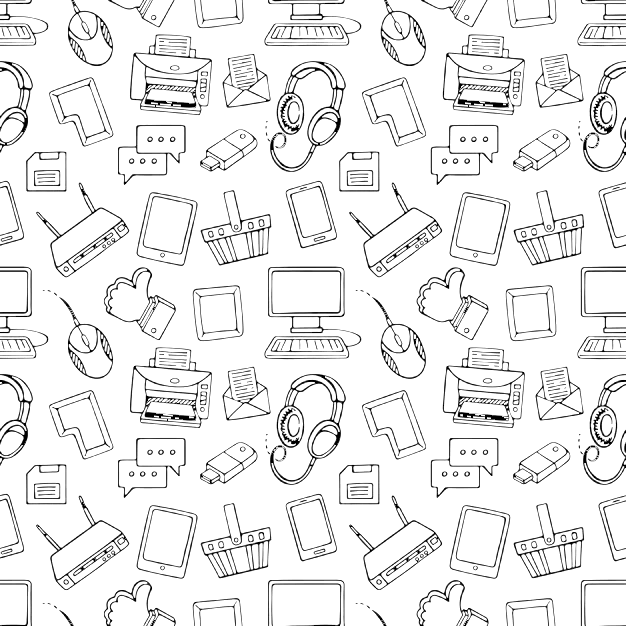
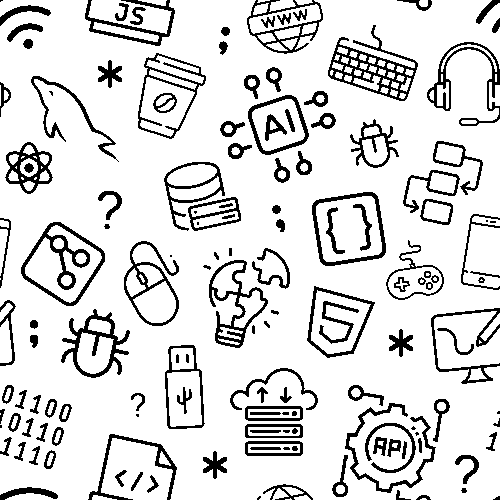
change background doodle

diff --git a/src/app/globals.css b/src/app/globals.css
@@ -91,7 +91,7 @@ ul li {
 }
 
 .doodle-background{
-  background: linear-gradient(to bottom, rgba(var(--bs-light-rgb), 0.95), rgba(var(--bs-light-rgb), 0.95)), url('/pattern-background.png');
+  background: linear-gradient(to bottom, rgba(var(--bs-light-rgb), 0.97), rgba(var(--bs-light-rgb), 0.97)), url('/pattern-background.png');
   background-size: 300px 300px;
 }
 
@@ -195,8 +195,6 @@ ul li {
 
 /* hero */
 .hero {
-  background: linear-gradient(to bottom, rgba(var(--bs-light-rgb), 0.9), rgba(var(--bs-light-rgb), 0.9)), url('/pattern-background.png');
-  background-size: 300px 300px;
   padding-bottom: 0px;
 }
 
@@ -518,7 +516,7 @@ ul li {
 
 /* award */
 .award {
-  background: linear-gradient(to bottom, rgba(76, 76, 76, 0.95), rgba(76, 76, 76, 0.95)), url('/pattern-background.png');
+  background: linear-gradient(to bottom, rgba(76, 76, 76, 0.98), rgba(76, 76, 76, 0.98)), url('/pattern-background.png');
   background-size: 300px 300px;
 }
 
@@ -1001,11 +999,6 @@ ul li {
 }
 
 /* blog-detail */
-.blog-detail{
-  background: linear-gradient(to bottom, rgba(var(--bs-light-rgb), 0.95), rgba(var(--bs-light-rgb), 0.95)), url('/pattern-background.png');
-  background-size: 300px 300px;
-}
-
 .blog-detail .blog-detail-title{
   color: var(--bs-primary);
   font-weight: 800;
@@ -1319,8 +1312,6 @@ ul li {
 
 /* coming-soon */
 .coming-soon {
-  background: linear-gradient(to bottom, rgba(var(--bs-light-rgb), 0.95), rgba(var(--bs-light-rgb), 0.95)), url('/pattern-background.png');
-  background-size: 300px 300px;
   padding: 8rem 2rem !important;
 }
 

diff --git a/src/components/Hero.tsx b/src/components/Hero.tsx
@@ -25,7 +25,7 @@ const Hero = () => {
     { icon: '/icons/puzzle.png', title: 'Problem Solve' },
   ];
   return (
-    <div className="hero section bg-light mb-0" id="hero">
+    <div className="hero section mb-0 doodle-background" id="hero">
       <div className="container">
         <div className="row">
           <div

diff --git a/src/components/ComingSoon.tsx b/src/components/ComingSoon.tsx
@@ -3,7 +3,7 @@ import React from 'react';
 
 const ComingSoon = () => {
   return (
-    <div className="coming-soon section">
+    <div className="coming-soon section doodle-background">
       <div className="container">
         <div className="row">
           <div className="col-md-6">
